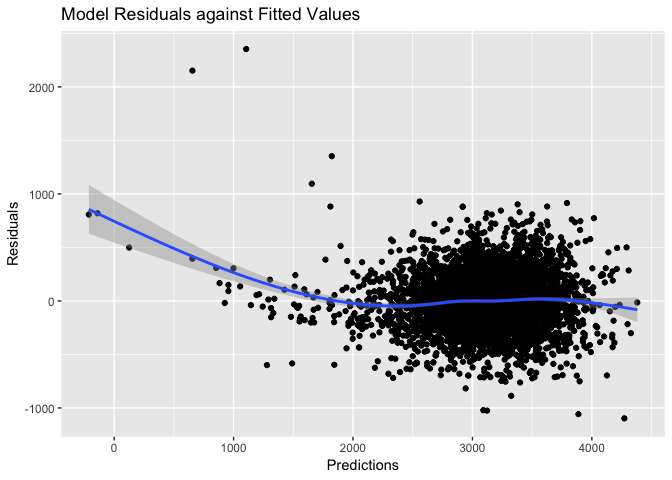
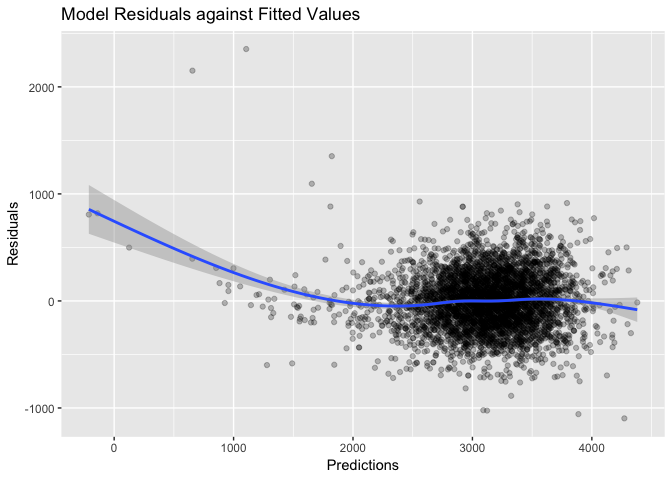
revise the plots and add some coments.

diff --git a/p8105_hw6_zw2541.md b/p8105_hw6_zw2541.md
@@ -108,6 +108,7 @@ estimate_ci %>%
   ggplot(aes(x = city_state, y = odds_ratio)) +
   geom_point() +
   geom_errorbar(aes(ymin = conf_low, ymax = conf_high)) +
+  geom_hline(yintercept = 1.0, linetype = "dashed") +
   theme(axis.text.x = element_text(angle = 90, hjust = 1)) +
   labs(title = "the Estimate Odds Ratio and Confidence Interval of Each City",
        x = "Odds Ratio",
@@ -115,6 +116,8 @@ estimate_ci %>%
 ```
 
 ![](p8105_hw6_zw2541_files/figure-markdown_github/unnamed-chunk-4-1.png)
+
+The plot above shows that only three cities (Durham, NC; Birmingham, AL; Tampa, FL) have the estimated odds ratio higher than one, which means that the odds of solving homicides of non-white victims is higher than the odds of solving homicides of white victims. Besides, 21 cities' higher confident interval limits are higher than one.
 
 Problem 2
 ---------
@@ -361,7 +364,7 @@ birthweight %>%
   add_predictions(mlr_birthweight) %>% 
   add_residuals(mlr_birthweight) %>% 
   ggplot(aes(x = pred, y = resid)) + 
-  geom_point() + 
+  geom_point(alpha = 0.25) + 
   geom_smooth() + 
   labs(title = "Model Residuals against Fitted Values",
         x = "Predictions",
@@ -372,13 +375,15 @@ birthweight %>%
 
 ![](p8105_hw6_zw2541_files/figure-markdown_github/unnamed-chunk-8-1.png)
 
+The plot above is a Residuals vs Fitted/Predicted Values plot. It indicates that when the predicted values are bewteen 2000 and 4000, the residuals form a horizontal (linear) 'band' around zero and evenly distributed around 0. Therefore, this model is not fit when the predicted value is lower than 2000 or higher than 4000.
+
 ### Compare the model above to two others
 
 Note: Model\_1 is the model we created above, model\_2 is the model using length at birth and gestational age as predictors (main effects only), and model\_2 is the model using head circumference, length, sex, and all interactions (including the three-way interaction) between these.
 
 ``` r
 cross_validation = 
-  crossv_mc(birthweight, 1000) %>%
+  crossv_mc(birthweight, 100) %>%
   mutate(train = map(train, as_tibble),
          test = map(test, as_tibble)) %>% 
   mutate(model_1 = map(train, ~lm(bwt ~  babysex + bhead + blength + delwt + fincome + gaweeks + mheight + mrace + parity + ppwt + smoken, data = .x)),
@@ -387,30 +392,7 @@ cross_validation =
          rmse_1 = map2_dbl(model_1, test, ~rmse(model = .x, data = .y)),
          rmse_2 = map2_dbl(model_2, test, ~rmse(model = .x, data = .y)),
          rmse_3 = map2_dbl(model_3, test, ~rmse(model = .x, data = .y)))
-```
 
-    ## Warning in predict.lm(model, data): prediction from a rank-deficient fit
-    ## may be misleading
-
-    ## Warning in predict.lm(model, data): prediction from a rank-deficient fit
-    ## may be misleading
-
-    ## Warning in predict.lm(model, data): prediction from a rank-deficient fit
-    ## may be misleading
-
-    ## Warning in predict.lm(model, data): prediction from a rank-deficient fit
-    ## may be misleading
-
-    ## Warning in predict.lm(model, data): prediction from a rank-deficient fit
-    ## may be misleading
-
-    ## Warning in predict.lm(model, data): prediction from a rank-deficient fit
-    ## may be misleading
-
-    ## Warning in predict.lm(model, data): prediction from a rank-deficient fit
-    ## may be misleading
-
-``` r
 cross_validation %>% 
   select(starts_with("rmse")) %>% 
   gather(key = model, value = rmse) %>% 
@@ -420,7 +402,9 @@ cross_validation %>%
   geom_violin() +
   labs(title = "Comparison between Three Models",
         x = "Model",
-        y = "Rmse")
+        y = "RMSE")
 ```
 
 ![](p8105_hw6_zw2541_files/figure-markdown_github/unnamed-chunk-9-1.png)
+
+From the plot above, we found that model\_1 (which is the model we created) has the lowest RMSE and model\_2 has the highest RMSE. Therefore, we conclude that our model is the best and model\_2 is the worst.
